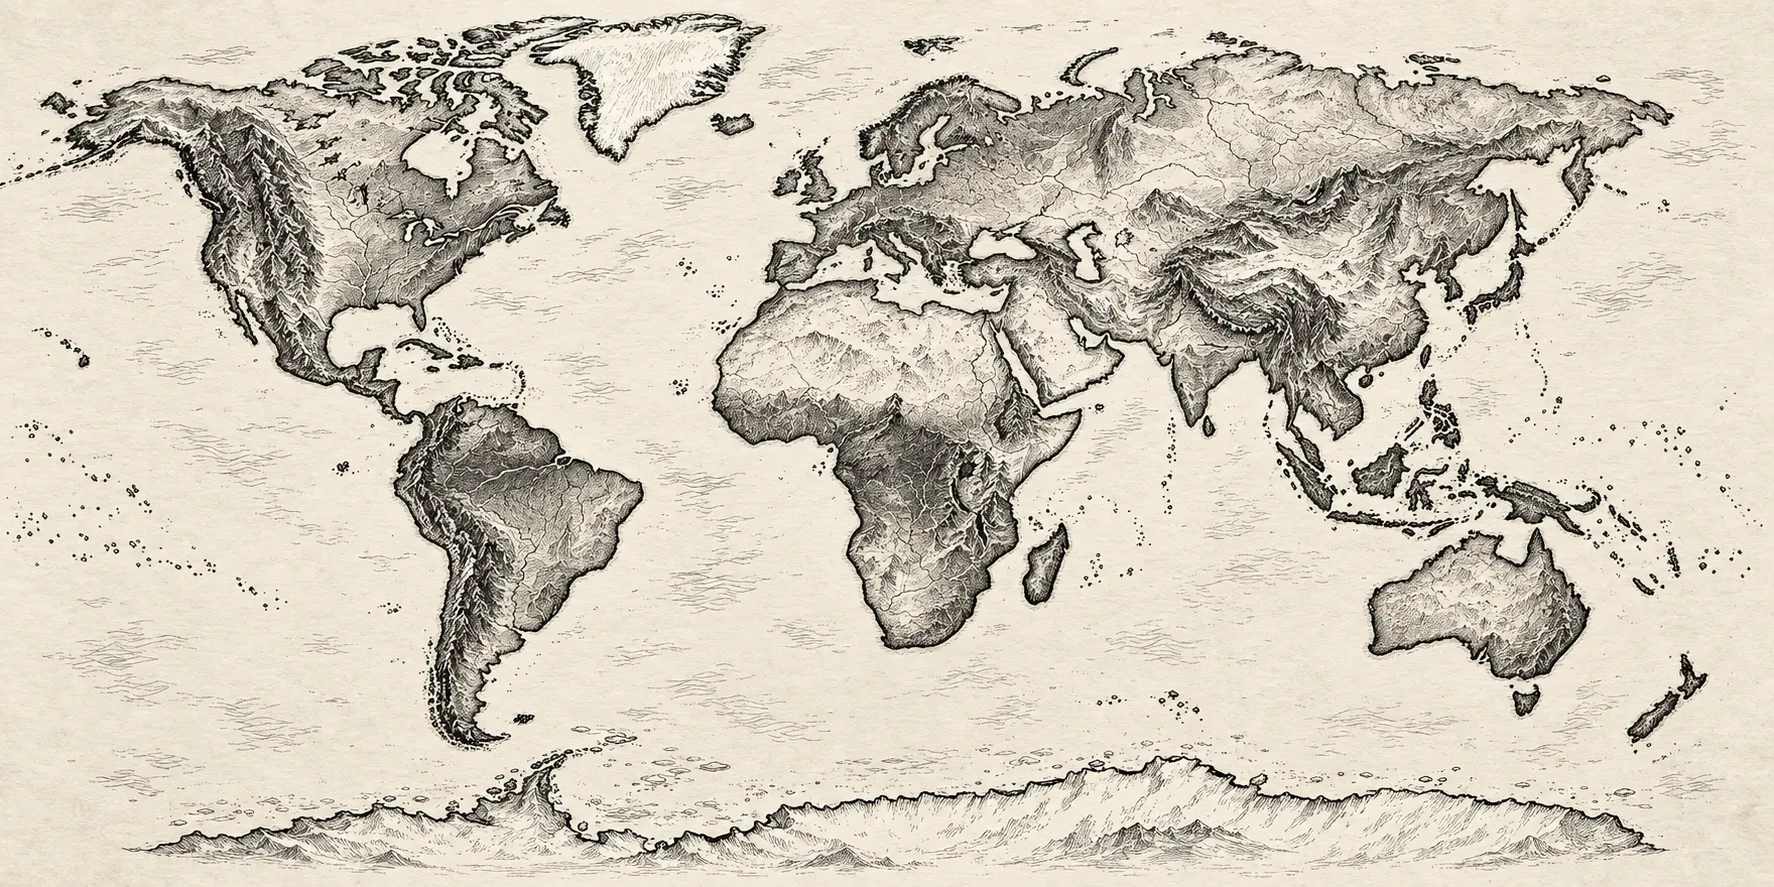
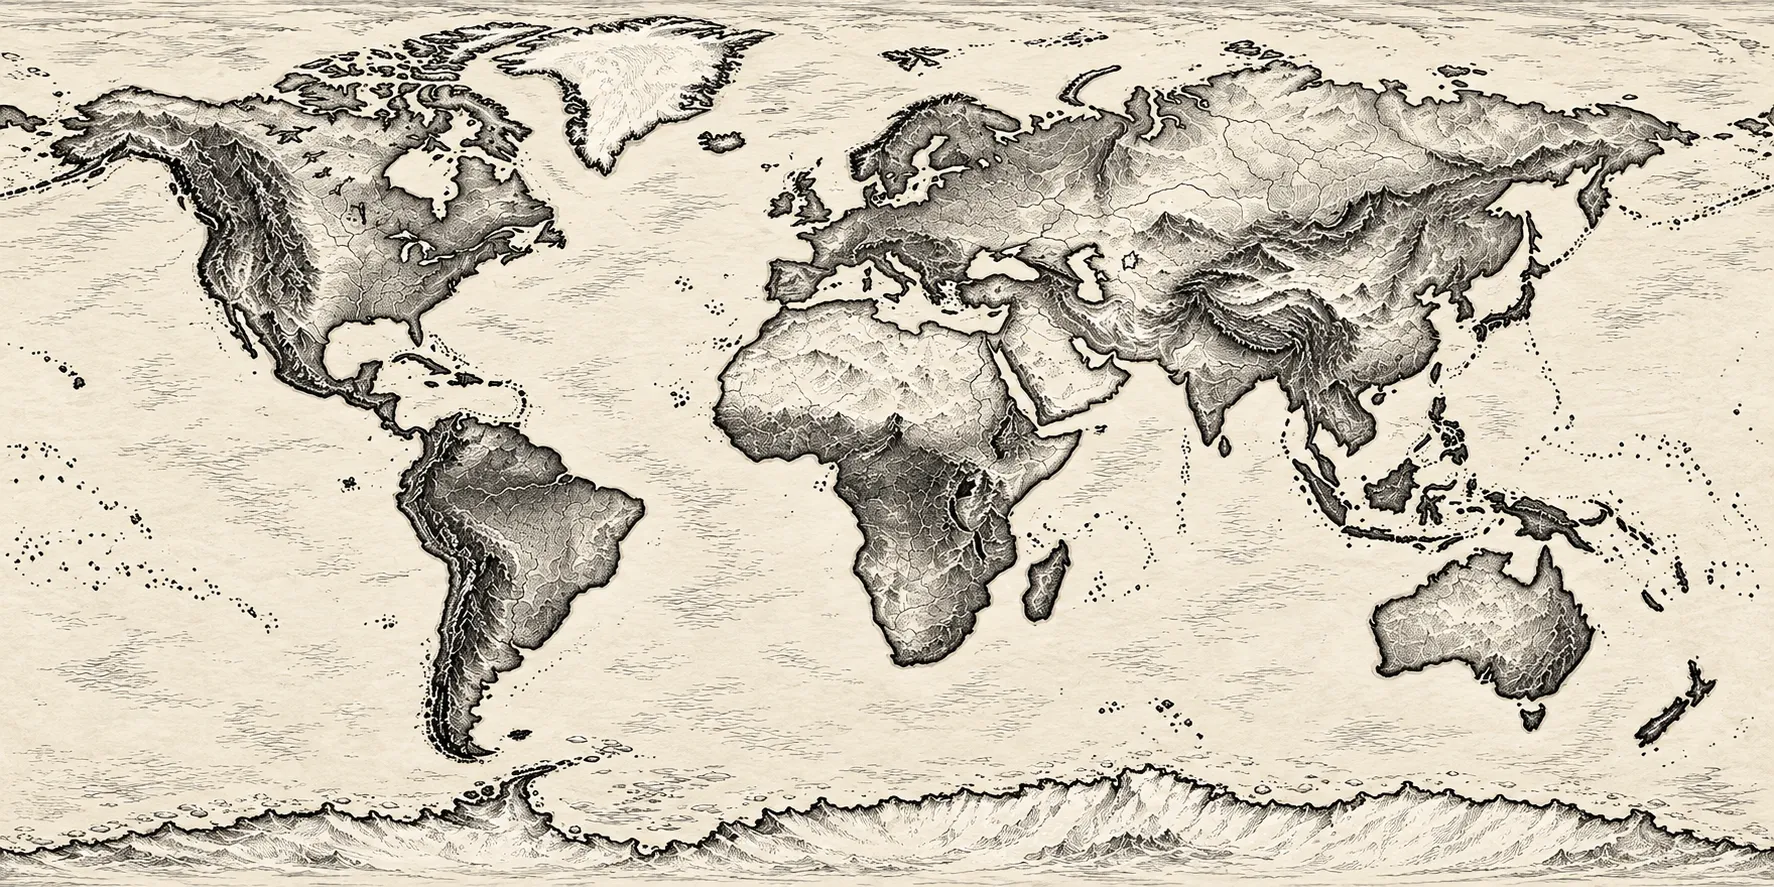
build 134: an accurate world, and the tool that says so
The map is redrawn and this one is a real map. Istanbul lands on the Bosphorus,
Athens on Attica, Land's End on Britain's south-west, Panama on the isthmus,
Agulhas on the southern tip of Africa, Madagascar beside Madagascar. The one it
replaces had, between 5°E and 45°E, a generic sea with generic coasts — no
Aegean, no Black Sea worth the name, and no Italian boot, which is why Italy's
marker appeared over the Balkans.

THE CAP STAYS AT 2.8, AND THE REASON CHANGED. It was accuracy. It is resolution
now, and no redrawing fixes that at this size:

    1774 px across 360 degrees = 4.9 pixels per degree
    Italy, 8 degrees by 10, is about 40 x 49 source pixels
    at the 6x focus zoom the map renders about 6600 css px wide — a 3.7x upscale

tools/map-check.py's Britain crop is the proof: 16 degrees of longitude is 79
source pixels, and it comes out as unreadable blur. There is no country in there
to be right or wrong about. An accurate map at 1774 px is still a map that cannot
be magnified six times. 4000 x 2000 would carry it, and MAP_MAX_ZOOM is one number.

TOOLS/MAP-CHECK.PY, which is the part that should have existed two builds ago. It
puts the graticule and seventeen places WHERE THEY REALLY ARE onto a candidate and
leaves a person to look. It does not try to grade the map, because it cannot: the
land-vs-sea probe in browser86 is continental and passes on a map whose
Mediterranean is fiction, and it cannot be sharpened — on the old drawing the
[…]

diff --git a/index.html b/index.html
@@ -188,7 +188,7 @@
     <p class="tag">Build a crew you trust. Take jobs around the world.<br>
       Choose your risks. Deal with the consequences.</p>
 
-    <p class="facts">Free to try, then $12 once for life · nothing to install · <b><!-- site.py:build -->build 133 · September 2026</b>
+    <p class="facts">Free to try, then $12 once for life · nothing to install · <b><!-- site.py:build -->build 134 · September 2026</b>
       · Windows, macOS and Linux</p>
 
     <p class="smallprint">It runs here, in the browser you are reading this in. No download, no
@@ -328,7 +328,7 @@
     </div>
     <div class="l" style="margin-top:6px">
       <a href="play.html">Play now</a>
-      <span><!-- site.py:build2 -->build 133 · September 2026</span>
+      <span><!-- site.py:build2 -->build 134 · September 2026</span>
     </div>
   </div>
 </footer>

diff --git a/play.html b/play.html
@@ -11863,7 +11863,7 @@ function screenOver(){
       +'<div class="b"><div class="k">Final float</div><div class="v num">'+money(S.money)+'</div></div></div>'
     +'<hr class="rule"><div style="display:flex;justify-content:center"><button class="btn stamp" data-act="newgame">Run it again →</button></div></div></div>'+footNote()+'</div>';
 }
-const BUILD="build 133 · September 2026";
+const BUILD="build 134 · September 2026";
 /* There was a version check here. A bundled copy fetched one line of text from the site, compared
    it with the build it was packed with, and printed a note in the footer when it was behind. It
    went with the download it was for, and so did the line of text and the constant that said where

diff --git a/tools/map-check.py b/tools/map-check.py
@@ -1,0 +1,145 @@
+#!/usr/bin/env python3
+"""Does this drawing line up with the world, before it becomes the map?
+
+    python3 tools/map-check.py <candidate.webp>       # writes /tmp/map-check-*.png to look at
+    python3 tools/map-check.py map/world.webp
+
+THIS EXISTS BECAUSE A MAP SHIPPED THAT DID NOT. Build 131 replaced 22 hand-traced coastline
+polygons with a picture, and tests/browser86.js proved the picture was in the same projection as
+the arithmetic — which it was, to a tenth of a pixel. Every pin sat exactly where its lon/lat said.
+Two builds later Italy's marker was sitting over the Balkans, because the drawing was accurate at
+continental scale and invented at country scale: between 5°E and 45°E it had a generic sea with
+generic coasts, no Italian boot, no Aegean.
+
+No test caught it and none could. The land-vs-sea probes in browser86 are continental — Australia,
+the Amazon, India against open ocean — and pass on a map whose Mediterranean is fiction. They
+cannot be sharpened either: on that drawing the Sahara read 231 against open ocean at 229, so no
+threshold separates land from water. A machine cannot check a picture for being a good map without
+a better map to check it against, and there is no better map in this repository.
+
+So this does not try. It puts the graticule and a list of places WHERE THEY REALLY ARE onto the
+candidate and leaves a person to look. That is the whole tool. It takes a minute and it is the
+step that was missing.
+
+WHAT TO LOOK FOR, in the order that catches the most:
+
+  1. The full sphere. The image must run from 180°W to 180°E and from 90°N to 90°S, edge to edge,
+     with no margin and no decorative border eating into it. A drawing that stops at 60°S and
+     fills the rest with waves is a different projection wearing the same shape, and every pin
+     will be wrong by a few degrees of latitude in a way that looks almost right.
+  2. The ring marks. Each should sit on the thing it names — GIBRALTAR in the strait, ROME on the
+     boot, SRI LANKA on the island. That is the check the last map failed.
+  3. The Mediterranean crop. It is written out separately because it is small, busy, and where
+     the previous drawing fell apart while the world view still looked fine.
+"""
+import os
+import sys
+
+ROOT = os.path.dirname(os.path.dirname(os.path.abspath(__file__)))
+OUT = "/tmp"
+
+# Places chosen for being unarguable in a drawing: narrow straits, continental extremes and
+# islands with a shape. A city in the middle of a plain proves nothing — there is nothing under it
+# to be right or wrong about.
+PLACES = [
+    ("Land's End",   50.1,   -5.7),
+    ("Gibraltar",    36.0,   -5.6),
+    ("Rome",         41.9,   12.5),
+    ("Athens",       38.0,   23.7),
+    ("Istanbul",     41.0,   29.0),
+    ("Iceland",      64.9,  -19.0),
+    ("North Cape",   71.2,   25.8),
+    ("Florida tip",  25.1,  -80.4),
+    ("Panama",        9.0,  -79.5),
+    ("Cape Horn",   -55.9,  -67.3),
+    ("Agulhas",     -34.8,   20.0),
+    ("Madagascar",  -19.0,   46.9),
+    ("Sri Lanka",     7.9,   80.7),
+    ("Singapore",     1.35, 103.8),
+    ("Tokyo",        35.7,  139.7),
+    ("Sydney",      -33.9,  151.2),
+    ("Auckland",    -36.8,  174.8),
+]
+
+# The one the previous map failed on, written out on its own because at world scale it is a
+# thumbnail and every fault in it hides.
+CROPS = [
+    ("mediterranean", 48, 5, 30, 45),
+    ("britain",       60, -12, 48, 4),
+    ("japan",         46, 128, 30, 146),
+]
+
+
+def main():
+    if len(sys.argv) < 2:
+        raise SystemExit(__doc__)
+    path = sys.argv[1]
+    try:
+        from PIL import Image, ImageDraw
+    except ImportError:
+        raise SystemExit("needs Pillow: pip install Pillow")
+
+    im = Image.open(path).convert("RGB")
+    W, H = im.size
+    ratio = W / H
+    print("\n%s — %dx%d, ratio %.4f" % (path, W, H, ratio))
+    if abs(ratio - 2.0) > 0.005:
+        print("  ** NOT 2:1. Equirectangular over the full sphere is 360 across by 180 down.")
+        print("     Everything below is measured against a projection this image is not in.")
+    else:
+        print("  2:1, which is what equirectangular over the full sphere is.")
+    # 1774 wide is what the game has had; at the 6x focus zoom the map is magnified about 6.6
+    # times, so a source this size is soft close in. Not wrong, just soft — said rather than
+    # enforced, because sharpness is a judgement and geography is not.
+    if W < 3000:
+        print("  Note: %dpx wide. Sharp at world scale, soft at the focus zoom. 4000 would hold up." % W)
+
+    def px(lat, lon):
+        return ((lon + 180) / 360 * W, (90 - lat) / 180 * H)
+
+    full = im.copy()
+    d = ImageDraw.Draw(full)
+    for lat in range(-60, 90, 30):
+        y = px(lat, 0)[1]
+        d.line([(0, y), (W, y)], fill=(220, 0, 0), width=4 if lat == 0 else 1)
+    for lon in range(-150, 180, 30):
+        x = px(0, lon)[0]
+        d.line([(x, 0), (x, H)], fill=(0, 70, 220), width=4 if lon == 0 else 1)
+    for name, lat, lon in PLACES:
+        x, y = px(lat, lon)
+        d.ellipse([x - 9, y - 9, x + 9, y + 9], outline=(0, 150, 0), width=3)
+        d.text((x + 12, y - 6), name, fill=(0, 110, 0))
+    p = os.path.join(OUT, "map-check-world.png")
+    full.save(p)
+    print("\n  %s — every ring should be on the thing it names" % p)
+
+    for name, n, w, s, e in CROPS:
+        x0, y0 = px(n, w)
+        x1, y1 = px(s, e)
+        z = max(1, int(1600 / max(1, x1 - x0)))
+        c = im.crop((int(x0), int(y0), int(x1), int(y1)))
+        c = c.resize((int((x1 - x0) * z), int((y1 - y0) * z)), Image.LANCZOS)
+        cd = ImageDraw.Draw(c)
+        for lat in range(int(s), int(n) + 1, 2):
+            y = (px(lat, 0)[1] - y0) * z
+            if 0 <= y < c.size[1]:
+                cd.line([(0, y), (c.size[0], y)], fill=(220, 0, 0))
+                cd.text((3, y + 2), "%d" % lat, fill=(220, 0, 0))
+        for lon in range(int(w), int(e) + 1, 2):
+            x = (px(0, lon)[0] - x0) * z
+            if 0 <= x < c.size[0]:
+                cd.line([(x, 0), (x, c.size[1])], fill=(0, 70, 220))
+                cd.text((x + 2, 3), "%d" % lon, fill=(0, 70, 220))
+        for pn, lat, lon in PLACES:
+            if s <= lat <= n and w <= lon <= e:
+                x, y = (px(lat, lon)[0] - x0) * z, (px(lat, lon)[1] - y0) * z
+                cd.ellipse([x - 9, y - 9, x + 9, y + 9], outline=(0, 150, 0), width=3)
+                cd.text((x + 12, y - 6), pn, fill=(0, 110, 0))
+        p = os.path.join(OUT, "map-check-%s.png" % name)
+        c.save(p)
+        print("  %s" % p)
+    print()
+
+
+if __name__ == "__main__":
+    main()
